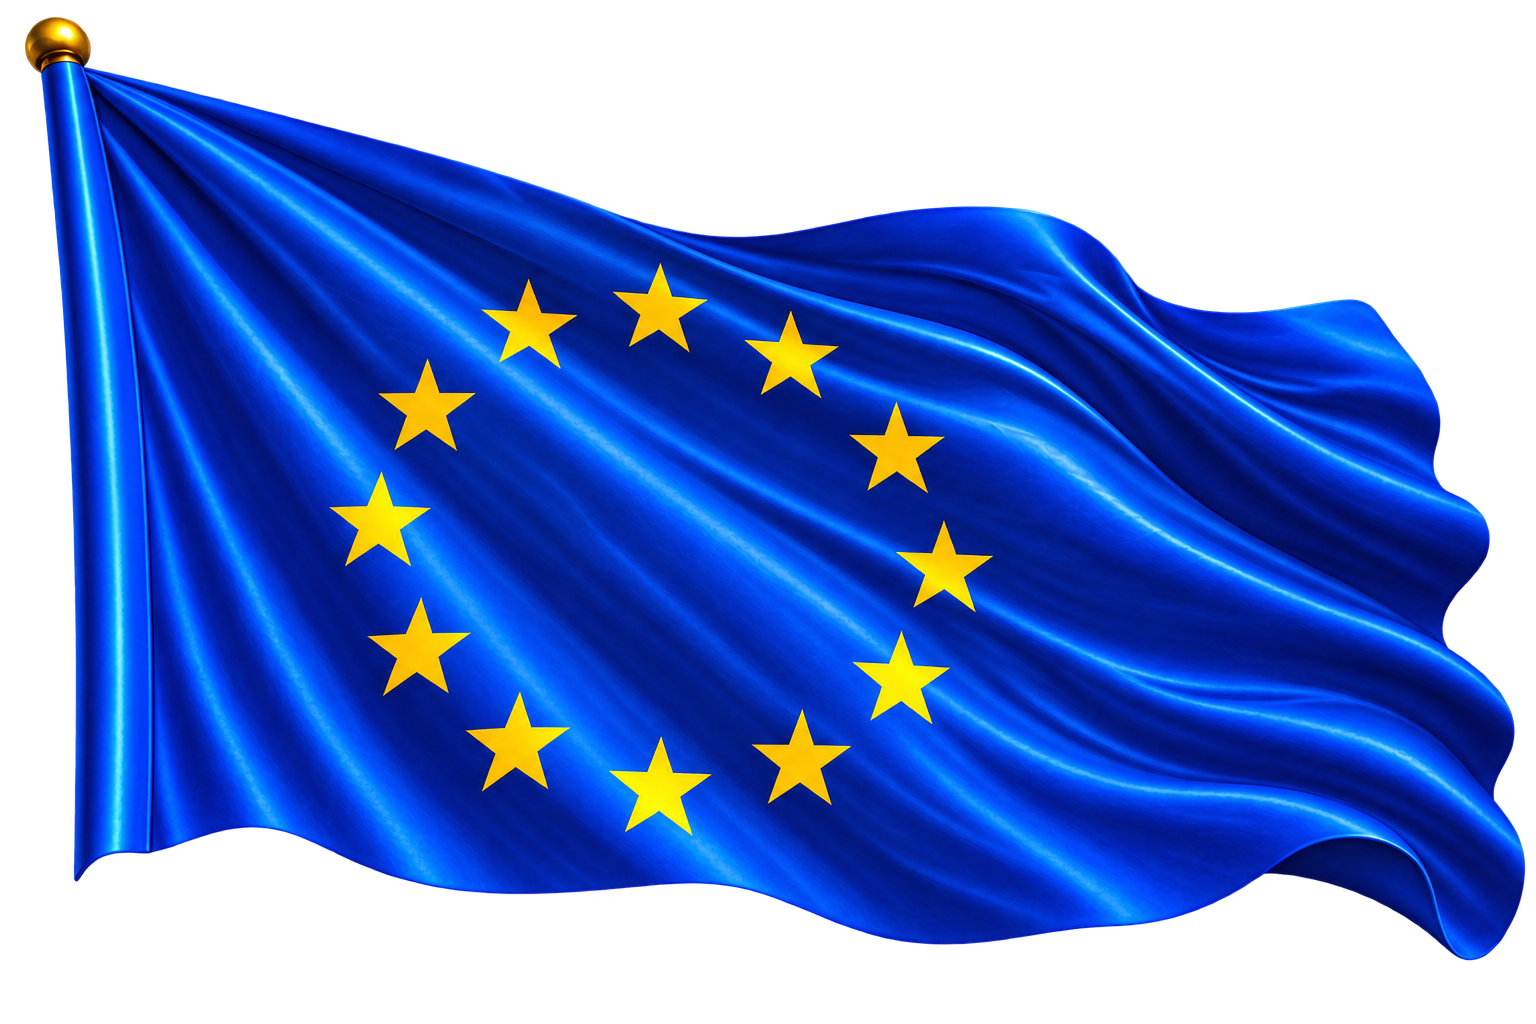
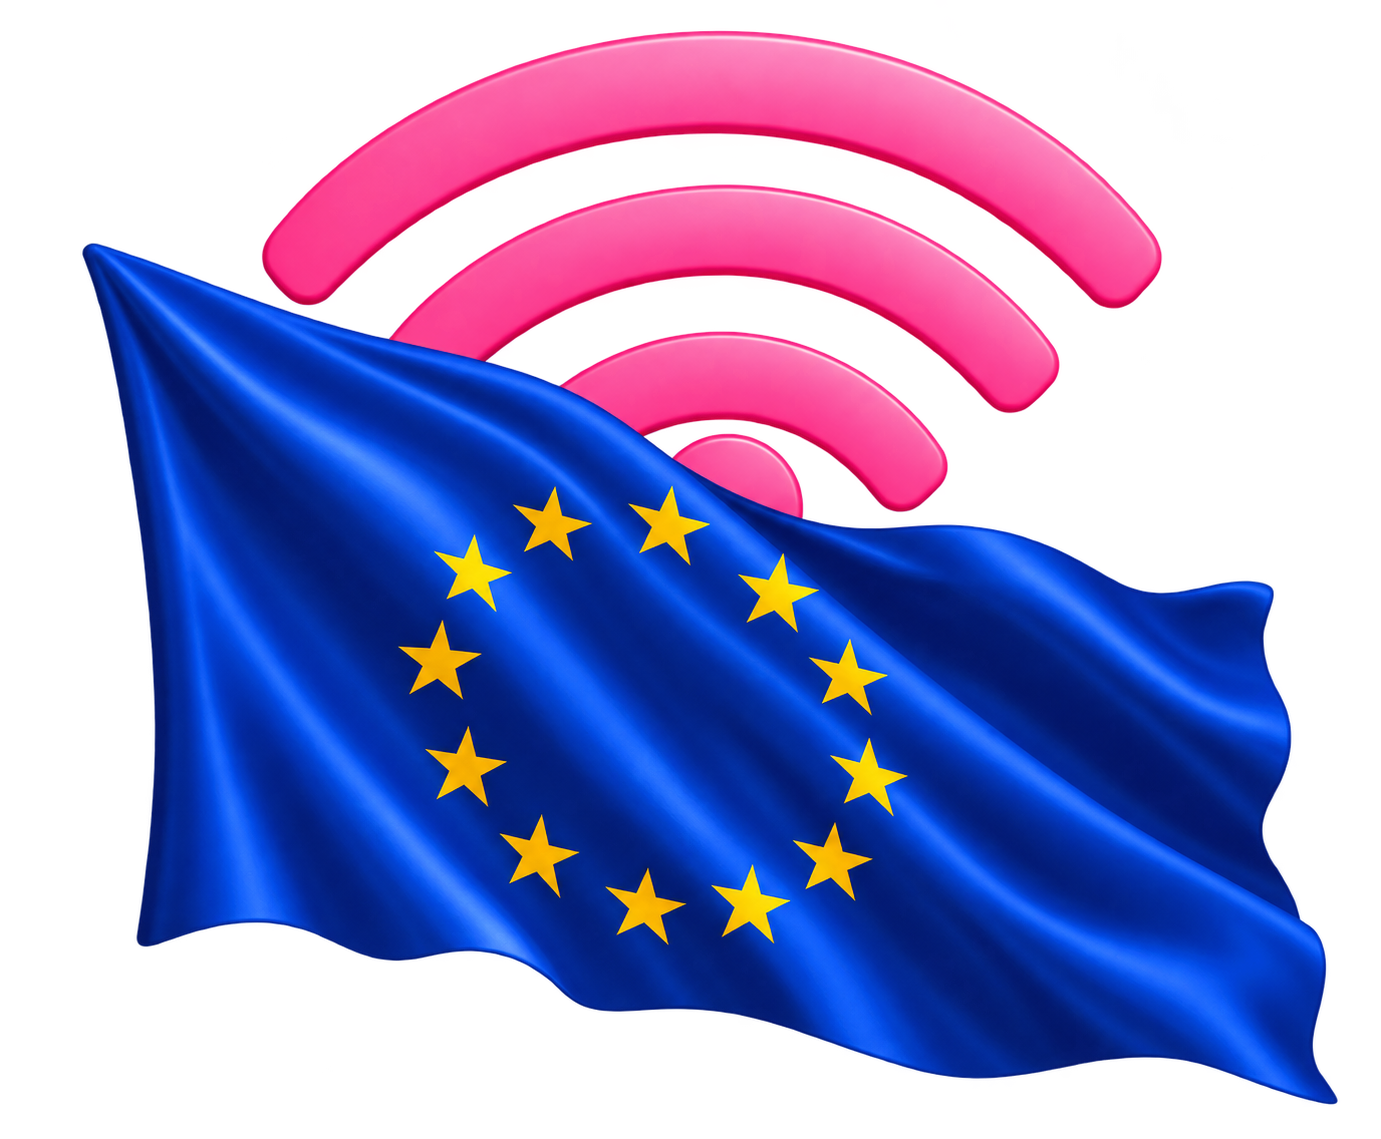
flags

diff --git a/src/pages/Home.vue b/src/pages/Home.vue
@@ -57,7 +57,7 @@
           <p>{{ featuredDestinationsCopy.text }}</p>
         </div>
         <div class="featured-destinations-grid">
-          <router-link v-for="destination in featuredLandingPages" :key="destination.slug" :to="destination.route" class="featured-destination-card">
+          <router-link v-for="destination in featuredLandingPages" :key="destination.slug" :to="destination.route" class="featured-destination-card featured-destination-card--illustrated">
             <img :src="destination.image" alt="" loading="lazy" decoding="async">
             <span class="featured-destination-overlay" aria-hidden="true"></span>
             <div><strong>{{ destination.name }}</strong><small>{{ featuredDestinationsCopy.explore }} <v-icon size="16">{{ arrowIcon }}</v-icon></small></div>
@@ -224,12 +224,12 @@ import { localePath } from '@/router'
 import Cart from '@/pages/Cart.vue'
 import { priceFromMad, getPreferredCurrency } from '@/utils/currency'
 import { posthog } from '@/services/posthog'
-import europeLandingImage from '@/assets/images/flags/regions/ue_flag.webp'
-import turkeyLandingImage from '@/assets/images/flags/tr.svg'
-import spainLandingImage from '@/assets/images/flags/es.svg'
-import franceLandingImage from '@/assets/images/flags/fr.svg'
-import saudiLandingImage from '@/assets/images/flags/sa.svg'
-import egyptLandingImage from '@/assets/images/flags/eg.svg'
+import europeLandingImage from '@/assets/images/ue_flag.png'
+import turkeyLandingImage from '@/assets/images/turkey_flag.png'
+import spainLandingImage from '@/assets/images/spain_flag.png'
+import franceLandingImage from '@/assets/images/france_flag.png'
+import saudiLandingImage from '@/assets/images/saudi_flag.png'
+import egyptLandingImage from '@/assets/images/egypt_flag.png'
 
 const locale = ref(i18n.global.locale)
 const preferredCurrency = getPreferredCurrency() === 'MAD' ? 'DH' : getPreferredCurrency()
@@ -705,4 +705,13 @@ watch(locale, () => {
 @media(max-width:960px){.featured-destinations-grid{grid-template-columns:repeat(2,minmax(0,1fr))}}
 @media(max-width:600px){.featured-destinations-section{padding:48px 0 8px}.featured-destinations-heading{margin-bottom:23px}.featured-destinations-heading h2{font-size:27px}.featured-destinations-heading p{font-size:14px}.featured-destinations-grid{grid-template-columns:repeat(2,minmax(0,1fr));gap:10px}.featured-destination-card{height:180px;border-radius:16px}.featured-destination-card>div{inset-inline:12px;bottom:12px}.featured-destination-card strong{font-size:16px}.featured-destination-card small{font-size:10px}}
 .featured-destinations-section + .plans-section{padding-top:0}
+/* Illustrated destination cards, with live localized labels over the artwork. */
+.featured-destination-card--illustrated{height:auto;aspect-ratio:1.08;background:radial-gradient(ellipse at 50% 32%,#fff8fb 0%,#fff0f6 65%,#fce4ee 100%);border-radius:28px;box-shadow:0 10px 28px #ac28502b}
+.featured-destination-card--illustrated>img{position:absolute;inset:4% 0 auto;width:100%;height:82%;object-fit:contain;object-position:center top}
+.featured-destination-card--illustrated .featured-destination-overlay{background:linear-gradient(180deg,rgba(28,25,29,0) 42%,rgba(28,25,29,.08) 54%,rgba(28,25,29,.38) 66%,rgba(28,25,29,.82) 80%,#1c191d 100%)}
+.featured-destination-card--illustrated>div{inset-inline:24px;bottom:24px;gap:12px}
+.featured-destination-card--illustrated strong{font-size:36px;line-height:1.15}
+.featured-destination-card--illustrated small{font-size:17px;gap:12px;margin-top:0}
+.featured-destination-card--illustrated small .v-icon{width:36px;height:36px;font-size:25px!important;border:2px solid #ffffff70}
+@media(max-width:600px){.featured-destination-card--illustrated{height:auto;border-radius:18px}.featured-destination-card--illustrated>div{inset-inline:12px;bottom:12px;gap:7px}.featured-destination-card--illustrated strong{font-size:22px}.featured-destination-card--illustrated small{font-size:10px;gap:5px}.featured-destination-card--illustrated small .v-icon{width:22px;height:22px;font-size:16px!important;flex-shrink:0}}
 </style>

diff --git a/src/pages/ar/esim/Europe.vue b/src/pages/ar/esim/Europe.vue
@@ -45,7 +45,7 @@
         </div>
         <div class="europe-plan-grid">
           <button v-for="plan in sortedPlans" :key="plan.key" type="button" class="europe-plan-card" :class="{ active: selectedPlanKey === plan.key }" @click="handleAddToCart(plan)">
-            <span v-if="plan.data === '10GB'" class="popular-label">الأكثر اختياراً</span>
+            <span v-if="plan.data === '10GB'" class="popular-label">الأكثر اختياراً • مثالية لمدة أسبوع إلى أسبوعين</span>
             <span class="plan-radio" aria-hidden="true"></span>
             <div class="plan-data"><b>{{ plan.dataLabel }}</b><span>بيانات الهاتف</span></div>
             <div class="plan-duration"><v-icon size="19">mdi-calendar-blank-outline</v-icon>{{ plan.days }} أيام</div>

diff --git a/src/pages/ar/esim/France.vue b/src/pages/ar/esim/France.vue
@@ -44,7 +44,7 @@
         </div>
         <div class="europe-plan-grid">
           <button v-for="plan in sortedPlans" :key="plan.key" type="button" class="europe-plan-card" :class="{ active: selectedPlanKey === plan.key }" @click="handleAddToCart(plan)">
-            <span v-if="plan.data === '10GB'" class="popular-label">الأكثر اختياراً</span>
+            <span v-if="plan.data === '10GB'" class="popular-label">الأكثر اختياراً • مثالية لمدة أسبوع إلى أسبوعين</span>
             <span class="plan-radio" aria-hidden="true"></span>
             <div class="plan-data"><b>{{ plan.dataLabel }}</b><span>بيانات الهاتف</span></div>
             <div class="plan-duration"><v-icon size="19">mdi-calendar-blank-outline</v-icon>{{ plan.days }} أيام</div>

diff --git a/src/pages/ar/esim/SaudiArabia.vue b/src/pages/ar/esim/SaudiArabia.vue
@@ -44,7 +44,7 @@
         </div>
         <div class="europe-plan-grid">
           <button v-for="plan in sortedPlans" :key="plan.key" type="button" class="europe-plan-card" :class="{ active: selectedPlanKey === plan.key }" @click="handleAddToCart(plan)">
-            <span v-if="plan.data === '10GB'" class="popular-label">الأكثر اختياراً</span>
+            <span v-if="plan.data === '10GB'" class="popular-label">الأكثر اختياراً • مثالية لمدة أسبوع إلى أسبوعين</span>
             <span class="plan-radio" aria-hidden="true"></span>
             <div class="plan-data"><b>{{ plan.dataLabel }}</b><span>بيانات الهاتف</span></div>
             <div class="plan-duration"><v-icon size="19">mdi-calendar-blank-outline</v-icon>{{ plan.days }} أيام</div>

diff --git a/src/pages/ar/esim/Spain.vue b/src/pages/ar/esim/Spain.vue
@@ -44,7 +44,7 @@
         </div>
         <div class="europe-plan-grid">
           <button v-for="plan in sortedPlans" :key="plan.key" type="button" class="europe-plan-card" :class="{ active: selectedPlanKey === plan.key }" @click="handleAddToCart(plan)">
-            <span v-if="plan.data === '10GB'" class="popular-label">الأكثر اختياراً</span>
+            <span v-if="plan.data === '10GB'" class="popular-label">الأكثر اختياراً • مثالية لمدة أسبوع إلى أسبوعين</span>
             <span class="plan-radio" aria-hidden="true"></span>
             <div class="plan-data"><b>{{ plan.dataLabel }}</b><span>بيانات الهاتف</span></div>
             <div class="plan-duration"><v-icon size="19">mdi-calendar-blank-outline</v-icon>{{ plan.days }} أيام</div>

diff --git a/src/pages/ar/esim/UnitedArabEmirates.vue b/src/pages/ar/esim/UnitedArabEmirates.vue
@@ -44,7 +44,7 @@
         </div>
         <div class="europe-plan-grid">
           <button v-for="plan in sortedPlans" :key="plan.key" type="button" class="europe-plan-card" :class="{ active: selectedPlanKey === plan.key }" @click="handleAddToCart(plan)">
-            <span v-if="plan.data === '10GB'" class="popular-label">الأكثر اختياراً</span>
+            <span v-if="plan.data === '10GB'" class="popular-label">الأكثر اختياراً • مثالية لمدة أسبوع إلى أسبوعين</span>
             <span class="plan-radio" aria-hidden="true"></span>
             <div class="plan-data"><b>{{ plan.dataLabel }}</b><span>بيانات الهاتف</span></div>
             <div class="plan-duration"><v-icon size="19">mdi-calendar-blank-outline</v-icon>{{ plan.days }} أيام</div>

diff --git a/src/pages/fr/esim/Europe.vue b/src/pages/fr/esim/Europe.vue
@@ -45,7 +45,7 @@
         </div>
         <div class="europe-plan-grid">
           <button v-for="plan in sortedPlans" :key="plan.key" type="button" class="europe-plan-card" :class="{ active: selectedPlanKey === plan.key }" @click="handleAddToCart(plan)">
-            <span v-if="plan.data === '10GB'" class="popular-label">Le plus populaire</span>
+            <span v-if="plan.data === '10GB'" class="popular-label">Le plus populaire • Idéal pour 1–2 semaines</span>
             <span class="plan-radio" aria-hidden="true"></span>
             <div class="plan-data"><b>{{ plan.dataLabel }}</b><span>de données mobiles</span></div>
             <div class="plan-duration"><v-icon size="19">mdi-calendar-blank-outline</v-icon>{{ plan.days }} jours</div>

diff --git a/src/pages/fr/esim/France.vue b/src/pages/fr/esim/France.vue
@@ -44,7 +44,7 @@
         </div>
         <div class="europe-plan-grid">
           <button v-for="plan in sortedPlans" :key="plan.key" type="button" class="europe-plan-card" :class="{ active: selectedPlanKey === plan.key }" @click="handleAddToCart(plan)">
-            <span v-if="plan.data === '10GB'" class="popular-label">Le plus populaire</span>
+            <span v-if="plan.data === '10GB'" class="popular-label">Le plus populaire • Idéal pour 1–2 semaines</span>
             <span class="plan-radio" aria-hidden="true"></span>
             <div class="plan-data"><b>{{ plan.dataLabel }}</b><span>de données mobiles</span></div>
             <div class="plan-duration"><v-icon size="19">mdi-calendar-blank-outline</v-icon>{{ plan.days }} jours</div>

diff --git a/src/pages/fr/esim/SaudiArabia.vue b/src/pages/fr/esim/SaudiArabia.vue
@@ -44,7 +44,7 @@
         </div>
         <div class="europe-plan-grid">
           <button v-for="plan in sortedPlans" :key="plan.key" type="button" class="europe-plan-card" :class="{ active: selectedPlanKey === plan.key }" @click="handleAddToCart(plan)">
-            <span v-if="plan.data === '10GB'" class="popular-label">Le plus populaire</span>
+            <span v-if="plan.data === '10GB'" class="popular-label">Le plus populaire • Idéal pour 1–2 semaines</span>
             <span class="plan-radio" aria-hidden="true"></span>
             <div class="plan-data"><b>{{ plan.dataLabel }}</b><span>de données mobiles</span></div>
             <div class="plan-duration"><v-icon size="19">mdi-calendar-blank-outline</v-icon>{{ plan.days }} jours</div>

diff --git a/src/pages/fr/esim/Spain.vue b/src/pages/fr/esim/Spain.vue
@@ -44,7 +44,7 @@
         </div>
         <div class="europe-plan-grid">
           <button v-for="plan in sortedPlans" :key="plan.key" type="button" class="europe-plan-card" :class="{ active: selectedPlanKey === plan.key }" @click="handleAddToCart(plan)">
-            <span v-if="plan.data === '10GB'" class="popular-label">Le plus populaire</span>
+            <span v-if="plan.data === '10GB'" class="popular-label">Le plus populaire • Idéal pour 1–2 semaines</span>
             <span class="plan-radio" aria-hidden="true"></span>
             <div class="plan-data"><b>{{ plan.dataLabel }}</b><span>de données mobiles</span></div>
             <div class="plan-duration"><v-icon size="19">mdi-calendar-blank-outline</v-icon>{{ plan.days }} jours</div>

diff --git a/src/pages/fr/esim/UnitedArabEmirates.vue b/src/pages/fr/esim/UnitedArabEmirates.vue
@@ -44,7 +44,7 @@
         </div>
         <div class="europe-plan-grid">
           <button v-for="plan in sortedPlans" :key="plan.key" type="button" class="europe-plan-card" :class="{ active: selectedPlanKey === plan.key }" @click="handleAddToCart(plan)">
-            <span v-if="plan.data === '10GB'" class="popular-label">Le plus populaire</span>
+            <span v-if="plan.data === '10GB'" class="popular-label">Le plus populaire • Idéal pour 1–2 semaines</span>
             <span class="plan-radio" aria-hidden="true"></span>
             <div class="plan-data"><b>{{ plan.dataLabel }}</b><span>de données mobiles</span></div>
             <div class="plan-duration"><v-icon size="19">mdi-calendar-blank-outline</v-icon>{{ plan.days }} jours</div>

diff --git a/src/pages/en/esim/Europe.vue b/src/pages/en/esim/Europe.vue
@@ -45,7 +45,7 @@
         </div>
         <div class="europe-plan-grid">
           <button v-for="plan in sortedPlans" :key="plan.key" type="button" class="europe-plan-card" :class="{ active: selectedPlanKey === plan.key }" @click="handleAddToCart(plan)">
-            <span v-if="plan.data === '10GB'" class="popular-label">Most popular</span>
+            <span v-if="plan.data === '10GB'" class="popular-label">Most popular • Ideal for 1–2 weeks</span>
             <span class="plan-radio" aria-hidden="true"></span>
             <div class="plan-data"><b>{{ plan.dataLabel }}</b><span>mobile data</span></div>
             <div class="plan-duration"><v-icon size="19">mdi-calendar-blank-outline</v-icon>{{ plan.days }} days</div>
